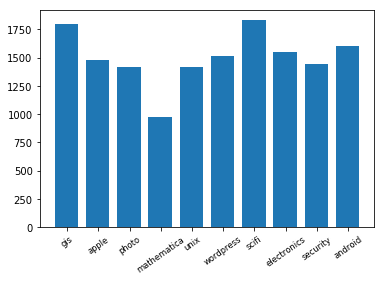
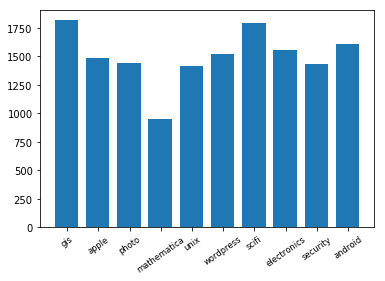
adicionando stemming

diff --git a/stack-exchange-question-classifier.md b/stack-exchange-question-classifier.md
@@ -27,8 +27,8 @@ Para executar algoritmos de aprendizado de máquina, precisamos converter os arq
 
 
 ```python
-# df = CountVectorizer(stop_words='english', strip_accents='unicode', lowercase=True, min_df=3, max_df=0.9, ngram_range=(1, 2), max_features=19000)
-df = CountVectorizer()
+df = CountVectorizer(stop_words='english', strip_accents='unicode', ngram_range=(1, 2))
+#df = CountVectorizer()
 
 
 data_test = data['excerpt'] + ' ' + data['question']
@@ -43,7 +43,7 @@ X_train.shape
 
 
 
-    (20219, 32263)
+    (20219, 344608)
 
 
 
@@ -59,7 +59,7 @@ X_train_tfidf.shape
 
 
 
-    (20219, 32263)
+    (20219, 344608)
 
 
 
@@ -96,20 +96,26 @@ Vamo executar o naive bayes com os dados de teste apenas como 'bag of words' e c
 ```python
 naive_bayes.fit(X_train, y)
 y_pred = naive_bayes.predict(X_test)
-print(np.mean(y_pred == np.array(y_true['labels']) ))
+
+print "Média de acerto: ",np.mean(y_pred == np.array(y_true['labels']) )
+print "Acurácia: ", naive_bayes.score(X_train, y)
 ```
 
-    0.9069984034060671
+    Média de acerto:  0.9042708887706227
+    Acurácia:  0.9937682377961323
     
 
 
 ```python
 naive_bayes.fit(X_train_tfidf, y)
 y_pred = naive_bayes.predict(X_test_tfidf)
-print(np.mean(y_pred == np.array(y_true['labels']) ))
+
+print "Média de acerto: ",np.mean(y_pred == np.array(y_true['labels']) )
+print "Acurácia: ", naive_bayes.score(X_train_tfidf, y)
 ```
 
-    0.8879723257051623
+    Média de acerto:  0.8966870675891432
+    Acurácia:  0.9833325090261635
     
 
 Vamo seguir a mesma abordagem, executando o SGDClassifier com os dados de teste apenas como 'bag of words' e com o tratamento do TF-IDF para observamos o impacto que essa abordagem pode trazer nesse algoritmo.
@@ -118,20 +124,26 @@ Vamo seguir a mesma abordagem, executando o SGDClassifier com os dados de teste 
 ```python
 clf.fit(X_train, y)
 y_pred = clf.predict(X_test)
-print(np.mean(y_pred == np.array(y_true['labels']) ))
+
+print "Média de acerto: ",np.mean(y_pred == np.array(y_true['labels']) )
+print "Acurácia: ", clf.score(X_train, y)
 ```
 
-    0.8843799893560405
+    Média de acerto:  0.8956226716338478
+    Acurácia:  0.9998516247094317
     
 
 
 ```python
 clf.fit(X_train_tfidf, y)
 y_pred = clf.predict(X_test_tfidf)
-print(np.mean(y_pred == np.array(y_true['labels']) ))
+
+print "Média de acerto: ", np.mean(y_pred == np.array(y_true['labels']) )
+print "Acurácia: ", clf.score(X_train_tfidf, y)
 ```
 
-    0.922166045769026
+    Média de acerto:  0.9250931346460883
+    Acurácia:  0.9990108313962115
     
 
 Gráfico com a quantidade de vezes que cada categoria foi predita pelo algoritmo SGDClassifier.
@@ -153,3 +165,50 @@ plt.show()
 
 ![png](output_21_0.png)
 
+
+Stemming reduz a palavra ao seu radical, por exemplo *gamming -> game*. Essa normalização pode gerar um ganho na análise textual.
+
+
+```python
+from nltk.stem import PorterStemmer
+from nltk.tokenize import sent_tokenize, word_tokenize
+
+ps = PorterStemmer()
+
+words=[]
+word_stemmer=[]
+
+for i, v in data_test.items():
+    words.append(word_tokenize(v))
+    
+for word in words:
+    word_stemmer.append(ps.stem(str(word)))
+```
+
+
+```python
+X_word_stemmer = df.transform(word_stemmer)
+X_word_stemmer_tfidf = tfidf_transformer.fit_transform(X_word_stemmer)
+
+X_word_stemmer.shape
+```
+
+
+
+
+    (20219, 344608)
+
+
+
+
+```python
+clf.fit(X_word_stemmer_tfidf, y)
+y_pred = clf.predict(X_test_tfidf)
+
+print "Média de acerto: ", np.mean(y_pred == np.array(y_true['labels']) )
+print "Acurácia: ", clf.score(X_word_stemmer_tfidf, y)
+```
+
+    Média de acerto:  0.9243613624268228
+    Acurácia:  0.9990108313962115
+    
